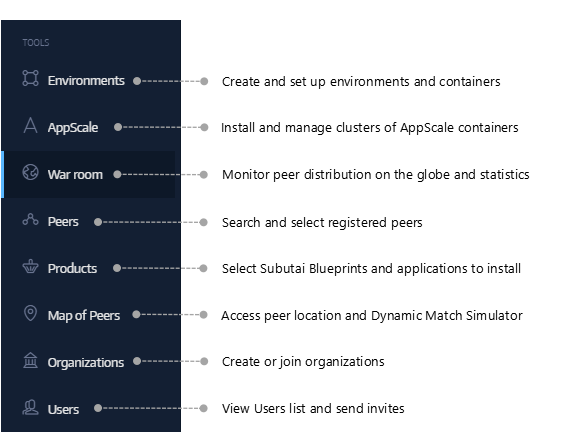
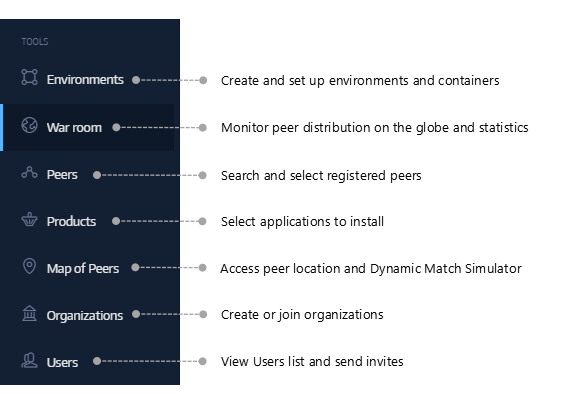
applying corrections asked by Abdysamat

diff --git a/user/pages/02.working-with-subutai/06.using-bazaar/04.use-account-tools/docs.md b/user/pages/02.working-with-subutai/06.using-bazaar/04.use-account-tools/docs.md
@@ -13,7 +13,7 @@ The User menu is located in the right sidebar of [Subutai Bazaar](https://bazaar
 
 ### Settings
 
-User settings will allow you to see and sometimes edit the following personal information:
+User settings will allow you to see and edit some of the following personal information:
 
 - Name
 - Username
@@ -37,7 +37,7 @@ This page shows the Peers you use. You can view your own Peers; Peers that you h
 
 ### Domains
 
-Here you can map domain names to your environments and containers. To add domains to your list, click "Add new". There will be two options for you to choose:
+Here you can create and manage domain names which you can later use for port mappings. To add domains to your list, click "Add new". There will be two options for you to choose:
 
 - **Bazaar sub-domain** allows you to create free subdomains of `.envs.subut.ai`. Type your desired subdomain, click the green button to check whether it is available and click save.
 - **User managed domain** lets you use domain names or subdomains you already own. Please note you need to have access to a registrar where your domain was created in order to configure it. First, type your domain name or subdomain. You will see that the example below will be changed to reflect the CNAME record you will need to add to your registrar's DNS settings.
@@ -46,17 +46,17 @@ Either way, from now on when you run a [Blueprint](../../blueprints) or access a
 
 ### Products
 
-This page lists your accepted Blueprints. You can edit their name, category, version, price (in GoodWill), description and logo.
+This page lists your published Blueprints. You can edit their name, category, version, price (in GoodWill), description and logo.
 
 ### SSH key management
 
 Here you can easily manage your SSH keys - add, view, delete and edit keys. SSH keys are very important to gain terminal access to Environments and Containers on Subutai.
 
-To add your key, click the green Add button and paste your key in the appropriate field. Click add and your key will be successfully added to the Bazaar!
+To add your key, click the green Add button and paste your public key in the appropriate field. Click add and your key will be successfully added to the Bazaar!
 
 ### My Blueprints
 
-This section allows you to add your GitHub projects to the Subutai Bazaar Apps section. You can for instance create your own Blueprint in GitHub, then authorize it on the Subutai Bazaar and upload it. After that, you will be able to build Environments based on your Blueprint. You can also publish your blueprint to make it available to other Bazaar users.
+This section allows you to import your own Subutai Blueprint projects from GitHub into the Bazaar. You can for instance create your own Blueprint in GitHub, then authorize it on the Subutai Bazaar and upload it. After that, you will be able to build Environments based on your Blueprint. You can also publish your blueprint to make it available to other Bazaar users.
 
 ### Application settings
 
@@ -64,9 +64,9 @@ Here you can add the default variables to use in Blueprints. For instance, you c
 
 ### CDN
 
-Subutai CDN is a server where you can store your templates and also use find other users' templates to create your own Environments.
+Subutai CDN is a server where you can store your templates and also use other users' templates to create your own Environments. You can also upload and store raw files.
 
-You can upload and download your Subutai Templates (as tar.gz files), or any other RAW file. There is also a tab called "REST Token Management" to generate Bazaar tokens via REST.
+You can upload and download your Subutai Templates (as tar.gz files), or any other RAW file. There is also a tab called "REST Token Management" to generate Bazaar tokens via REST. A token will be needed if you want to upload a template via REST API.
 
 Please note that you need to have the E2E plugin and PGP key installed and configured in order to use the Subutai CDN. Press the authorize button and wait until your key is added. NOTE: the CDN token expires within one hour. After that, you will need to perform an authorization again.
 

diff --git a/user/pages/02.working-with-subutai/06.using-bazaar/03.using-bazaar-tools/01.select-peers/docs.md b/user/pages/02.working-with-subutai/06.using-bazaar/03.using-bazaar-tools/01.select-peers/docs.md
@@ -1,5 +1,5 @@
 ---
-title: 'Use the Bazaar Tools'
+title: 'Select Peers'
 visible: true
 menu: Select Peers
 taxonomy:
@@ -9,9 +9,10 @@ taxonomy:
 
 ### Select Peers
 Whether buying, renting, or sharing peers, use Subutai Bazaar to find compute resources that you need. Resources are made available through peers or virtual nodes. Peers that are registered with Bazaar can be available as:
+
 * **Paid** - peers available for rent to all users
 * **Free** - peers available to all users for free
-* **Shared** - peers shared to select users for free
+* **Shared** - peers shared to select users
 
 #### <a id="search-for-peers"> </a> Search for peers
 Use the Search tool on the Peers page to look for a peer by its partial or full name. You can also use the filters at the top of the page to narrow down the list of peers.
@@ -22,14 +23,12 @@ Use the Search tool on the Peers page to look for a peer by its partial or full 
 * **CPU** - Select from the list of CPUs used by peers.
 * **ISP** - Select from the list of ISPs associated with existing peers.
 * **Price** (/hr) - Enter the minimum and maximum range for price per hour, in GoodWill.
-* **Memory** - Adjust the scale to specify the range (between 0 to 31 GB).
-* **Disk** - Adjust the scale to specify the range (between 10 GB to 4436 GB).
+* **Memory** - Adjust the scale to specify the range (between 0 and the maximum available in Bazaar at the time).
+* **Disk** - Adjust the scale to specify the range (between 10 GB and the maximum available in Bazaar at the time).
 
 Other search options include the following:
 * **Including offline peers** - Add offline peers to the list.   
    💡 You can add offline peers to your Favorites list, but you cannot set them up with an environment or application until they become online.
-* **AppScale Installed** - Include peers that have AppScale installed.
-After selecting or entering your filtering criteria, click **Search** to apply them to the list.
 
 #### Add peers to Favorites
 From the list on the Peers page, select each peer by clicking **Add to Favorites**. 

diff --git a/user/pages/02.working-with-subutai/06.using-bazaar/03.bazaar-tools/03.war-room/docs.md b/user/pages/02.working-with-subutai/06.using-bazaar/03.bazaar-tools/03.war-room/docs.md
@@ -10,7 +10,7 @@ taxonomy:
 
 The Globe represents Peers as they are distributed in the whole world. On the left side there are 3 switches:
 
-- Users - here you can turn off or turn on the visibility of user > density by country. ountries with a lot of Peers are shown in > pink, the ones with some Peers are light blue. If there are no > Peers, the country is shown in dark.
+- Users - here you can turn off or turn on the visibility of user > density by country. Countries with a lot of Peers are shown in > pink, the ones with some Peers are light blue. If there are no > Peers, the country is shown in dark.
 - Peers - here you also can turn on and turn off the switches to > see Peers that are online or offline.
 
 On the right side of the page we can see the Bazaar statistics.
@@ -18,10 +18,10 @@ On the right side of the page we can see the Bazaar statistics.
 Available data:
 
 - Total numbers of Peers and how many Peers were registered in the current week.
-- Total numbers of Resource Hosts (RHs) and how many RH were created in the current week. Total numbers of Environments created and amount of Environments created in the current week.
+- Total numbers of Resource Hosts (RHs) and how many RH were created in the current week.
+- Total numbers of Environments created and amount of Environments created in the current week.
 - Total amount of registered users, and users registered in the current week.
 - Total amount of products uploaded, and those uploaded in the current week.
 - Current market prices (in [GoodWill](https://subutai.io/goodwill.html)) for different container types (price for using a Peer’s resources, per hour)
-- AppScale statistics (how many AppScales on clusters, containers and Peers are installed)
 
 On the right bottom are the statistics of dynamics of user and Peer registration on the Bazaar.

diff --git a/user/pages/02.working-with-subutai/06.using-bazaar/03.using-bazaar-tools/06.products/docs.md b/user/pages/02.working-with-subutai/06.using-bazaar/03.using-bazaar-tools/06.products/docs.md
@@ -10,7 +10,7 @@ The Subutai Bazaar has a special section named “Products”. Here you can choo
 
 ![Products](products.png)
 
-From the products page you can choose any product by clicking on it. You will be able to see a description, version, size, owner, quantity of views and installs, price, and other infor about the product. You also can leave your own review and rate it.
+From the products page you can choose any product by clicking on it. You will be able to see a description, version, size, owner, quantity of views and installs, price, and other information about the product. You also can leave your own review and rate it.
 
 There is an install button on the top right. You can click this button, and follow the instructions to install the product in a Peer or group of peers. [Learn more](../../../blueprints/using-blueprints) about how to run Blueprints to install applications.
 

diff --git a/user/pages/02.working-with-subutai/06.using-bazaar/03.using-bazaar-tools/05.peers/docs.md b/user/pages/02.working-with-subutai/06.using-bazaar/03.using-bazaar-tools/05.peers/docs.md
@@ -36,9 +36,9 @@ On the individual Peer page you can see useful information:
 
 - Username of the Peer’s owner.
 - Location of the Peer.
-- Last heartbeat. This is the last ping (test reachability of host) > from the Peer, which shows that the Peer is online.
+- Last heartbeat. This is the last ping (test reachability of host) from the Peer, which shows that the Peer is online.
 - Name of the Peer’s internet provider.
-- Scope. Peer can be public (visible for everyone) or Private (visible > only for its owner).
+- Scope. The Peer can be Public (visible for everyone), Private (visible only for its owner) or Shared (visible by users with whom the owner shares the Peer).
 - See this Peer in the War Room.
 - Access this Peer via Subutai Console (if you have the proper rights and credentials)
 - On the top right corner you can add or remove to/from your list of favorite peers.

diff --git a/user/pages/02.working-with-subutai/06.using-bazaar/01.top-menu/docs.md b/user/pages/02.working-with-subutai/06.using-bazaar/01.top-menu/docs.md
@@ -21,7 +21,7 @@ Bazaar notifies you whenever there are changes in your Peers or Environments; ne
 
 ### Chat
 
-By clicking on the “Chat” button, you can see a list of Subutai Bazaar users, both offline and online. You can choose a user and send them a private message. You can also create conversation rooms for groups and add other users to them. You can search by username. When the chat is active, you can turn off or turn on sound notifications.
+By clicking on the “Chat” button, you can see a list of Subutai Bazaar users, both offline and online. You can choose a user and send them a private message. You can search by username. When the chat is active, you can turn off or turn on sound notifications.
 
 ### User profile
 

diff --git a/user/pages/02.working-with-subutai/06.using-bazaar/01.get-to-know/docs.md b/user/pages/02.working-with-subutai/06.using-bazaar/01.get-to-know/docs.md
@@ -10,7 +10,7 @@ taxonomy:
 The features and functionalities in Bazaar are organized in two main menus: Tools and Account.
 
 ### Tools menu
-Access Bazaar features such as peer selection, creation of environments, blueprint installation, and peer tracking.
+Access Bazaar features such as peer selection, creation of environments, application installation, and peer tracking.
 
 ![Tools menu](bazaar-menu-tools.png)
 

diff --git a/user/pages/02.working-with-subutai/06.using-bazaar/03.bazaar-tools/docs.md b/user/pages/02.working-with-subutai/06.using-bazaar/03.bazaar-tools/docs.md
@@ -8,7 +8,7 @@ taxonomy:
 
 Learn more about the tools in [Subutai Bazaar](https://bazaar.subutai.io). You can find them in the left sidebar.
 
-- [Environments](environments)
+- [Environments](create-environments)
 - [War Room](war-room)
 - [Peers](peers)
 - [Products](products)
